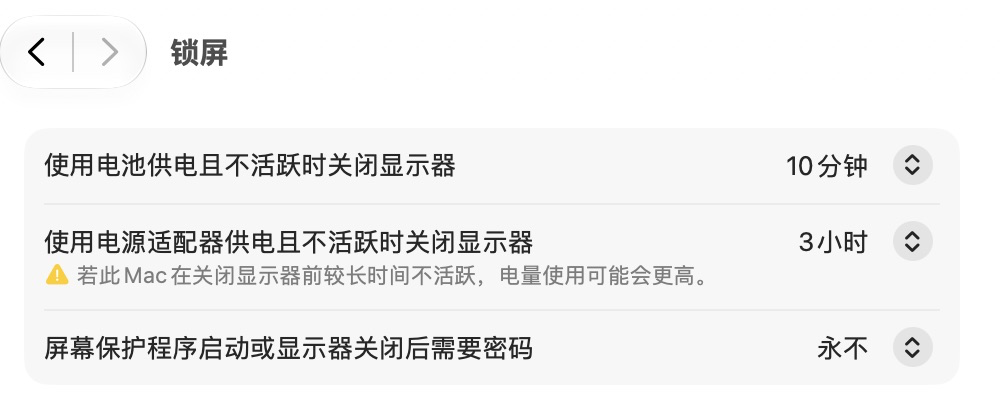
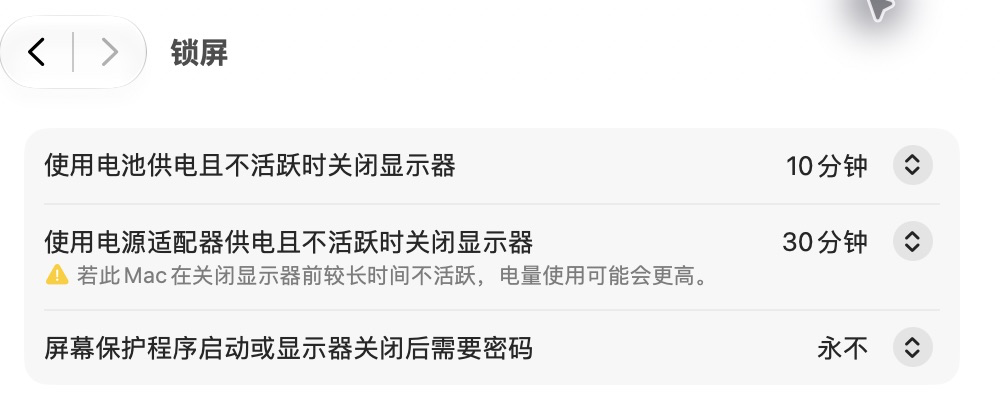
docs: update display sleep timeout to 30 minutes

Changed region(s): [[0.837, 0.0, 0.93, 0.12], [0.775, 0.57, 0.868, 0.63]]

diff --git a/docs/knowledge/engineering/macbook-remote-development-setup.md b/docs/knowledge/engineering/macbook-remote-development-setup.md
@@ -78,7 +78,7 @@ Tailscale 提供网络连通性，SSH 和屏幕共享各自提供认证与操作
 
 ## 当前验证范围
 
-2026-11-01 补充桌面自动化实践：实机 GUI 确认屏保启动和熄屏或屏保后密码要求均为“永不”，当前接电防闲置睡眠开启，接电显示器计时为 3 小时。Codex 已能获取访达、Chrome 画面并点击系统设置，过程中无需人先通过远程桌面解锁。截图与完整验收边界见 [补充实践](./macbook-remote-development-codex-desktop-access.md)；本轮没有受控验证长时间熄屏到唤醒的完整循环，也没有进行重启恢复。
+2026-11-01 补充桌面自动化实践：实机 GUI 确认屏保启动和熄屏或屏保后密码要求均为“永不”，当前接电防闲置睡眠开启，接电显示器计时为 30 分钟。Codex 已能获取访达、Chrome 画面并点击系统设置，过程中无需人先通过远程桌面解锁。截图与完整验收边界见 [补充实践](./macbook-remote-development-codex-desktop-access.md)；本轮没有受控验证长时间熄屏到唤醒的完整循环，也没有进行重启恢复。
 
 以下保留 2026-10-11 的历史验证范围，相关计时与密码策略以各自日期为准。
 
